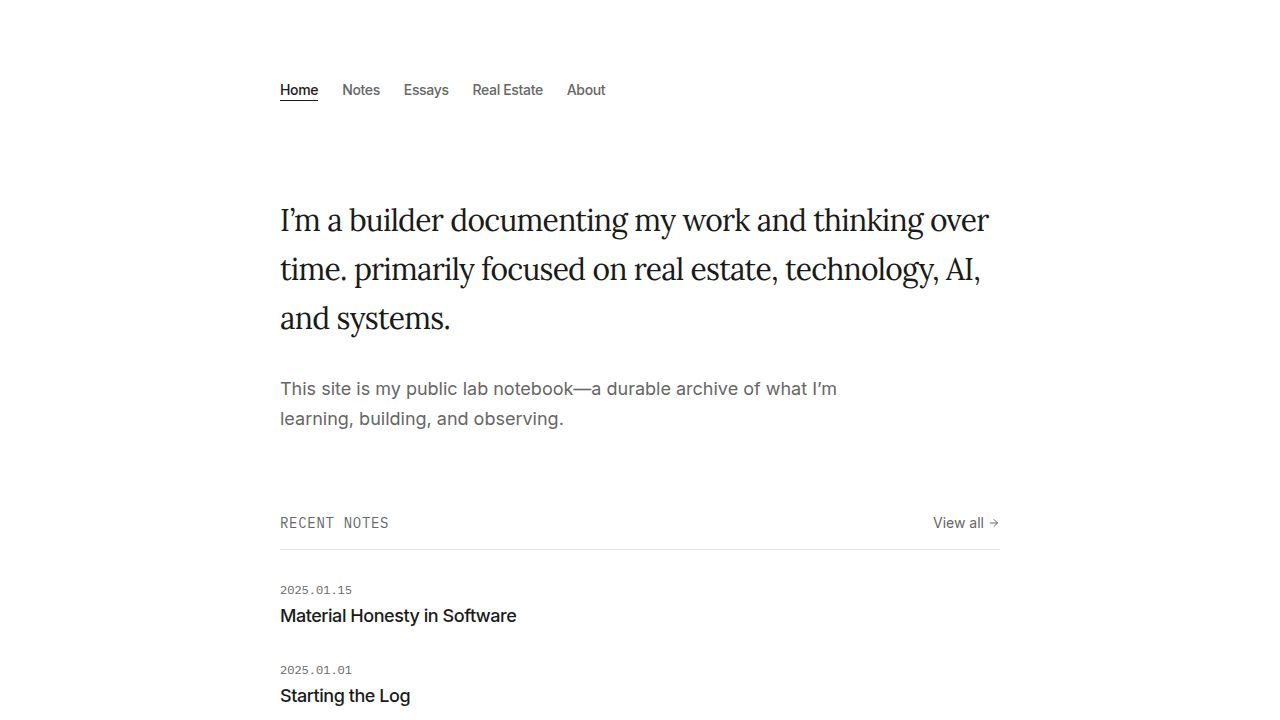
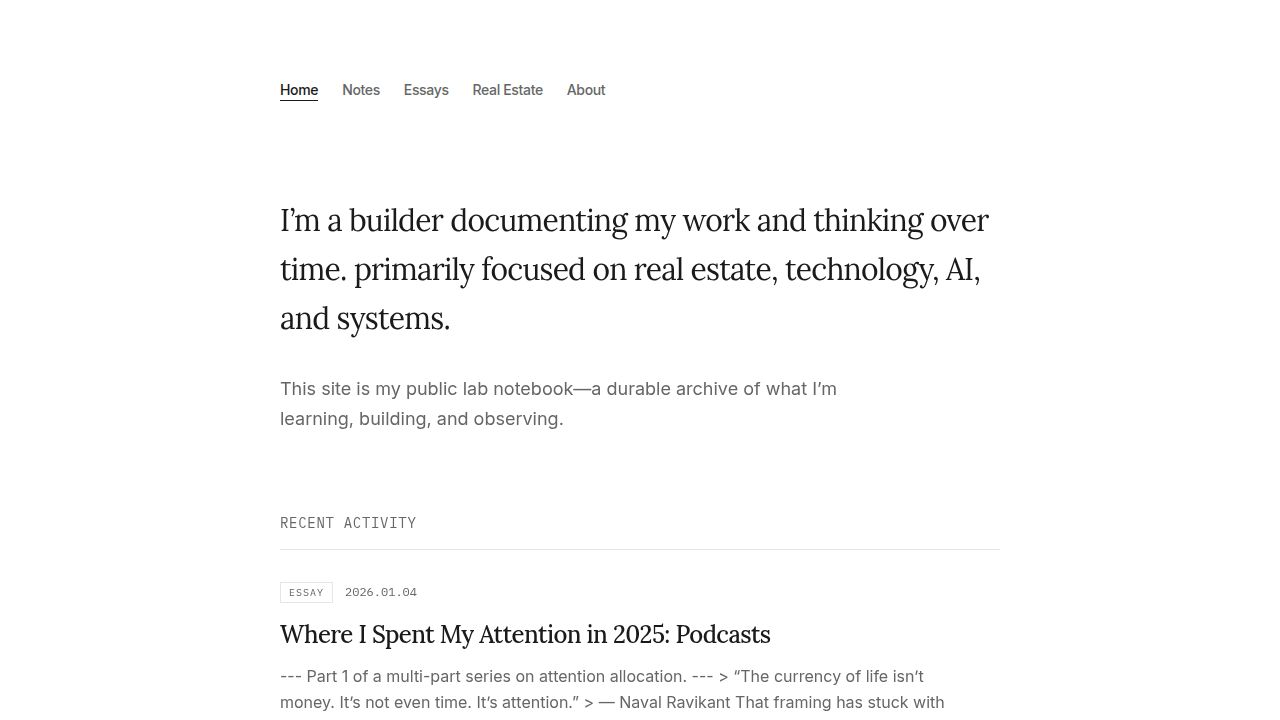
Update the introductory log post with new content
Update client/src/lib/content.ts to reflect the new manifesto for the public lab notebook.

Replit-Commit-Author: Agent
Replit-Commit-Session-Id: 666cfbde-2e46-4571-9db5-784c743cadc0
Replit-Commit-Checkpoint-Type: full_checkpoint
Replit-Commit-Event-Id: 3fa8cee7-4974-4720-bf64-8279f0af67ad
Replit-Commit-Screenshot-Url: https://storage.googleapis.com/screenshot-production-us-central1/2c9379cb-7f94-454e-bbc6-118aca8f0ee0/666cfbde-2e46-4571-9db5-784c743cadc0/PZVmPoi
Replit-Helium-Checkpoint-Created: true

diff --git a/client/src/lib/content.ts b/client/src/lib/content.ts
@@ -252,13 +252,21 @@ This isn’t a theory of attention—just a practice of noticing.
     date: "2026.01.04",
     type: "note",
     content: `
-This is the beginning of a public lab notebook. 
+This is the beginning of a public lab notebook.
 
-I've spent years building things—houses, software systems, teams—but much of the thinking behind that work has been lost to email threads, Slack messages, and ephemeral social media posts.
+I’m obsessed with learning and absorbing information. That obsession leads to a lot of thoughts. Many of them bounce around my head and go nowhere. Some of them turn into conversations. All of them, in one way or another, leak into how I approach the world—how I build, how I decide, how I show up.
 
-The goal here isn't traffic. It's clarity. Writing forces you to structure your thoughts, to test your assumptions, and to create a record that can be referenced later.
+Until now, most of that thinking has been ephemeral. It lives in my head, in passing conversations, in email threads, Slack messages, or short social posts that disappear as quickly as they’re written.
 
-This site is static. It's simple. It's designed to last. No databases to maintain, no complex CMS to update. just text files and a build process. 
+The goal here isn’t traffic. It’s clarity.
+
+Writing forces me to slow down and make my thinking explicit—to see what I actually believe, to test assumptions, and to notice patterns I’d otherwise miss. Right now, the primary objective is simple: capture what’s already happening internally and get into the habit of writing regularly.
+
+Over time, I want this to become a breadcrumb trail for my future self—a record of when certain ideas first appeared, how they influenced decisions, and which heuristics proved useful or flawed. If that trail is helpful to anyone else along the way, that’s a bonus.
+
+This site is intentionally simple. It’s static. It’s designed to last. No databases to maintain, no complex CMS to update—just text files, versioned over time, and a build process. The constraint is the point.
+
+This is where the log starts.
     `
   }
 ];
